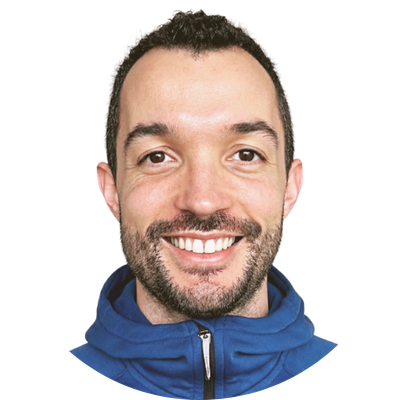
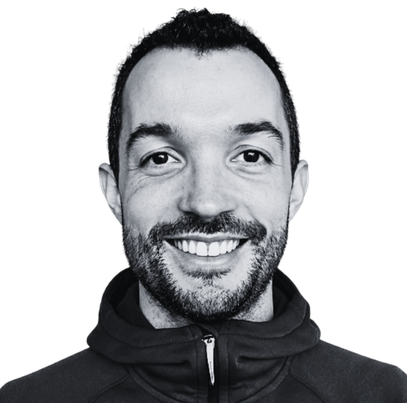
Add Sirob Technologies case study and update Fernando specialist page
- Create Sirob Technologies case study with challenge, solution, and benefits sections
- Add testimonial from Daniil Goloviznin, Head of Infrastructure
- Update Fernando Goncalves as lead consultant with new panel and headshot images
- Update Fernando specialist page with new panel image

Made-with: Cursor

diff --git a/content/case-studies/sirob-case-study/index.md b/content/case-studies/sirob-case-study/index.md
@@ -1,0 +1,91 @@
+---
+title: 'Sirob Technologies Case Study'
+author_id: 'Fernando Goncalves'
+summary: 'FivexL built a secure, multi-tenant AWS platform for an Estonian AI startup, taking their agentic DevOps product from early MVP to production-ready infrastructure in under two months.'
+date: 2026-02-19
+author: Fernando Goncalves
+panel_image: Fernando-sirob-tech.png
+authors_heading: 'Lead consultant for the project'
+alt_image: Fernando-sirob-tech.png
+case_study: true
+layout: 'case_study'
+tags: ['case study', 'aws', 'ai', 'ecs']
+testimonial: "FivexL didn't just set up infrastructure - they gave us a production platform we could trust from day one. We went from a manual MVP to onboarding real customers in weeks."
+testimonial_author: "Daniil Goloviznin,"
+testimonial_author_position: "Head of Infrastructure at Sirob Technologies"
+testimonial_author_portrait: Daniil.png
+testimonial_cta_url: '/contact'
+testimonial_long: |
+  "What impressed us most was the speed and the depth of expertise. FivexL understood exactly what an AI-native product needs on AWS - multi-tenancy, data isolation, Bedrock integration - and delivered it all with security baked in from the start. The SSO Elevator setup means nobody has standing access to production, which is exactly the posture we need when handling customer data. We expected a solid foundation; what we got was a competitive advantage."
+about_company:
+  logo: 'boris_logo.png'
+  heading: 'About Sirob Technologies'
+  text: |
+    <a href="https://getboris.ai/" target="_blank">Sirob Technologies</a> is an Estonian Agentic AI SaaS company building B.O.R.I.S. - an AI DevOps teammate that connects to an engineering team's existing tools (logs, metrics, dashboards, tickets, repos, configs) and translates operational noise into structured, AI-ready context. When an incident hits, BORIS investigates, correlates signals, and answers with evidence - then captures the resolution path so the next incident is faster and less dependent on who happens to be online. The result: less toil, fewer repeat outages, and more productive engineers.
+double_panel:
+  layout: 'case-studies'
+  heading: "CASE STUDIES"
+  subheading: "SaaS, AI, health care, and financial startups trust FivexL to build their infrastructure in AWS, empowering their businesses to grow faster. Learn how."
+  icon_links:
+   - { url: "https://github.com/fivexl", icon: "github" }
+   - { url: "https://www.linkedin.com/company/5xl", icon: "linkedin" }
+  button_cta: { url: "/contact", text: "Book a consultation" }
+  media_panel: { url: "https://youtu.be/uruLy1goNW0" }
+---
+{{< case_study/challenge image="sirob-challenge.png" image_css="object-position: center" >}}
+{{< pink_heading text="Challenge" sizes="bigger">}}
+Building an AI product is one thing. Running it in production for real customers is a different problem entirely.<br/>
+<br/>
+Sirob Technologies had a working prototype of BORIS - an agentic AI DevOps teammate powered by Amazon Bedrock. The AI worked. But the infrastructure underneath was manually configured, single-tenant, and nowhere near ready for paying customers. A familiar situation for any AI startup: the model is promising, but the platform around it isn't there yet.<br/>
+<br/>
+To start onboarding customers, Sirob needed to solve several hard infrastructure problems at once: how to run Bedrock-powered agents in a secure, multi-tenant setup where each customer's data stays strictly isolated. How to deploy and update agents without downtime. How to trace and audit every action an AI agent takes in a customer's environment - a non-negotiable when your product touches production infrastructure. And how to control costs and enforce guardrails around LLM usage so that scaling doesn't mean runaway bills.<br/>
+<br/>
+With a small team and paying customers waiting, Sirob couldn't afford a year-long infrastructure build. Every week without a production-ready platform was a week of lost revenue and a week of delayed go-to-market.
+{{</ case_study/challenge >}}
+
+{{< case_study/solution heading="Solution" >}}
+{{< case_study/column >}}
+FivexL designed a phased approach to take Sirob from a manually configured MVP to a fully productized, secure AWS platform - all delivered in under two months.<br/>
+<br/>
+<strong>Phase 1: Secure Landing Zone with RightStart (about a month)</strong><br/>
+FivexL started with its <a href="/rightstart">RightStart for AWS</a> productized service to establish a compliant, secure Landing Zone. This gave Sirob a governed multi-account AWS Organization with dedicated accounts for workloads, security tooling, and shared services - built on AWS Control Tower with full Terraform automation.<br/>
+<br/>
+The Landing Zone was configured with multiregional deployment support from the start, addressing data sovereignty requirements critical for Sirob's international customer base. Cost anomaly detection and budget alerts were set up to give the small team early visibility into spending patterns.<br/>
+<br/>
+<strong>Phase 2: True Least-Privilege Access (< 1 week)</strong><br/>
+FivexL deployed its open-source <a href="https://github.com/fivexl/terraform-aws-sso-elevator">SSO Elevator</a> to implement a zero-standing-access model. No one - not even infrastructure leads - has permanent access to production. All elevated access is temporary, requested through Slack, and fully audited. For an AI product handling customer operational data, this posture isn't optional - it's a competitive requirement.
+{{</ case_study/column >}}
+{{< case_study/column >}}
+<strong>Phase 3: Security and Operational Monitoring (1 week)</strong><br/>
+The AWS environment was instrumented with centralized security monitoring across all accounts: CloudTrail for audit logging, Security Hub for posture management, GuardDuty for threat detection, and Config for resource compliance tracking. Alerts flow to the team's existing channels, keeping operational overhead minimal for a small team.<br/>
+<br/>
+<strong>Phase 4: Productized Bedrock Deployment on ECS (2 weeks)</strong><br/>
+This was the core platform build. FivexL migrated BORIS from the manual MVP setup to <a href="/ecs-blueprint">FivexL's ECS Blueprint</a> - a battle-tested container orchestration pattern running on AWS Fargate. The deployment includes:<br/>
+<br/>
+<strong>Amazon Bedrock integration</strong> using the latest platform features, giving BORIS managed access to foundation models with built-in guardrails for content filtering, token limits, and cost controls.<br/>
+<br/>
+<strong>Multi-tenant isolation</strong> ensuring each customer's data, agent runs, and context remain strictly separated - enforced at the network, IAM, and application layers.<br/>
+<br/>
+<strong>Automated CI/CD pipelines</strong> enabling frequent, zero-downtime deployments so the Sirob team can ship updates to BORIS without interrupting customer environments.<br/>
+<br/>
+<strong>Observability stack</strong> with structured logging and tracing across agent runs, providing auditable records of every action BORIS takes in a customer environment.
+{{</ case_study/column >}}
+{{</ case_study/solution >}}
+
+{{< case_study/benefits
+    cta_text="Start Your Success Story"
+    cta_url="/contact"
+    image="sirob-benefits.png"
+    >}}
+{{< pink_heading text="Benefits" >}}
+<strong>From MVP to customer-ready platform in under two months</strong> - Sirob Technologies went from a manually configured prototype to onboarding paying customers on a secure, production-grade AWS platform.<br/>
+<br/>
+<strong>Immediate outcomes</strong><br/>
+Sirob started onboarding customers and winning business immediately. Enterprise-grade security, strict data isolation, and auditable access controls gave prospects the confidence to commit. The zero-standing-access model via SSO Elevator became a selling point in security-conscious sales conversations.<br/>
+<br/>
+<strong>Operational efficiency for a small team</strong><br/>
+The fully automated, Terraform-managed platform means the team spends time building BORIS features, not managing AWS resources. Automated deployments, centralized monitoring, and cost alerting keep the operational burden near zero.<br/>
+<br/>
+<strong>Longer-term outcomes</strong><br/>
+The multi-tenant architecture scales with demand - new tenants without architectural changes. The multiregional Landing Zone supports expansion into markets with data residency requirements. And because the entire infrastructure is defined as code, the team can evolve the platform independently.
+{{</ case_study/benefits >}}

diff --git a/content/specialist/Fernando Goncalves/index.md b/content/specialist/Fernando Goncalves/index.md
@@ -14,7 +14,7 @@ certifications:
   - 'SolArchitect.png'
   - 'SolArchitectPro.png'
   - 'fivexl.png'
-panel_image: 'Fernando_author_page.png'
+panel_image: 'Fernando_specialist.png'
 author_headshot: 'Fernando.png'
 author_id: Fernando Goncalves
 ---
